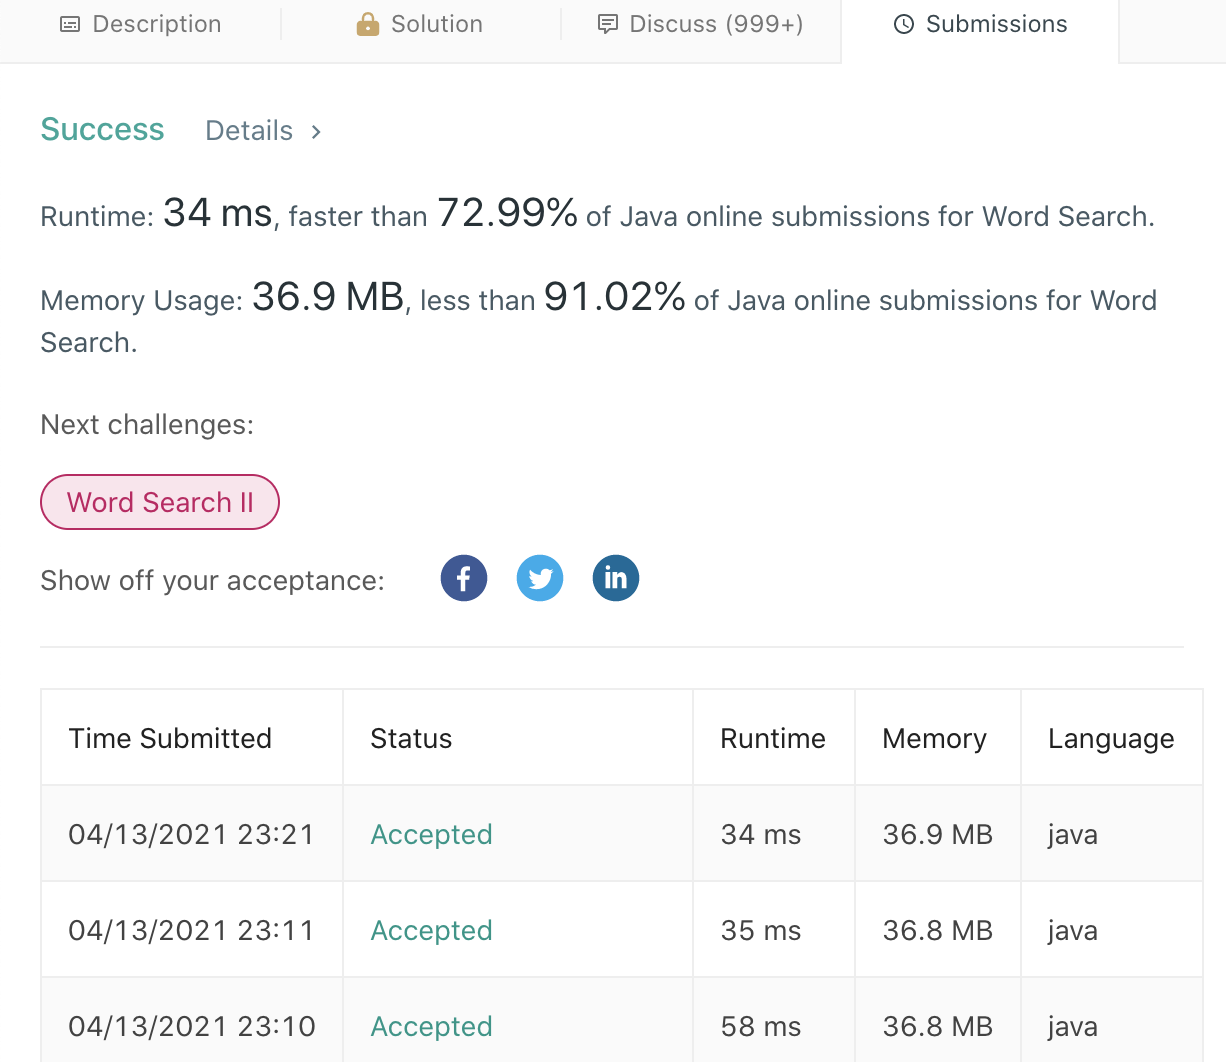
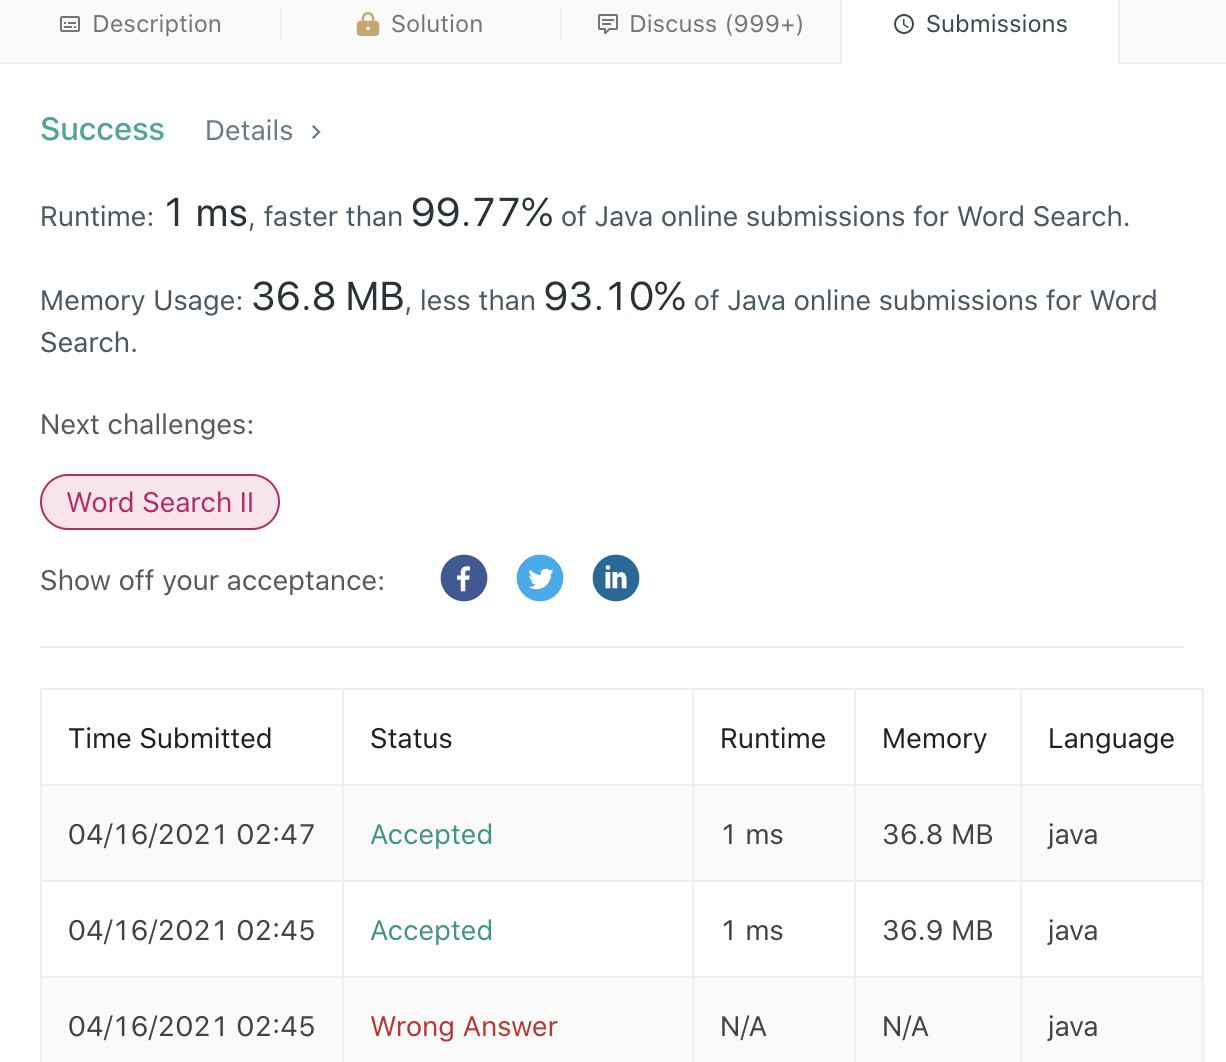
update problem 79. "Word Search, 1ms". Need more optimization later..

diff --git a/src/search/seventyNine/Solution.java b/src/search/seventyNine/Solution.java
@@ -7,6 +7,8 @@ public class Solution {
         char [][] board = {{'A','B','C','E'},{'S','F','C','S'},{'A','D','E','E'}};
         char [][] board2 = {{'A','B','C','E'},{'S','F','E','S'},{'A','D','E','E'}};
 
+        System.out.println(Arrays.deepToString(board));
+
         String word = "ABCB";
         String word2 = "ABCESEEEFS";
         boolean r = new Solution().exist(board2,word2);
@@ -14,13 +16,24 @@ public class Solution {
     }
 
     public boolean exist(char[][] board, String word) {
+
+
+        // if any char of word doesn't exist in the matrix, then we fail the function directly
+        // this can save a lot of time consumption for this test
+        String board_str = Arrays.deepToString(board);
+        for(char s:word.toCharArray()){
+            if(board_str.indexOf(s)==-1)
+                return false;
+        }
+
         char [] word_char = word.toCharArray();
-        int [][] map = new int [board.length][board[0].length];
         for(int row = 0;row<board.length;row++){
             for(int col = 0;col<board[0].length;col++){
-                if(board[row][col] == word_char[0])
-                    if(search(board,word_char,map,0,row,col))
+                int [][] map = new int [board.length][board[0].length];
+                if(board[row][col] == word_char[0]) {
+                    if (search(board, word_char, map, 0, row, col))
                         return true;
+                }
             }
         }
         return false;
@@ -43,12 +56,12 @@ public class Solution {
         boolean right_r = (right==target&&map[row][col+1]==0)?search(board,word,map,pos+1,row,col+1):false;
         boolean down_r = (down==target&&map[row+1][col]==0)?search(board,word,map,pos+1,row+1,col):false;
 
-        if(!(top_r||left_r||right_r||down_r)) {
-            // revert the map, it's very important
-            map[row][col] = 0;
-            return false;
-        }else {
+        if(top_r||left_r||right_r||down_r)
             return true;
-        }
+
+        // revert the map, it's very important
+        map[row][col] = 0;
+        return false;
+
     }
 }

diff --git a/src/search/seventyNine/79.md b/src/search/seventyNine/79.md
@@ -1,0 +1,4 @@
+check the problem:
+https://leetcode.com/problems/word-search/
+
+Medium
